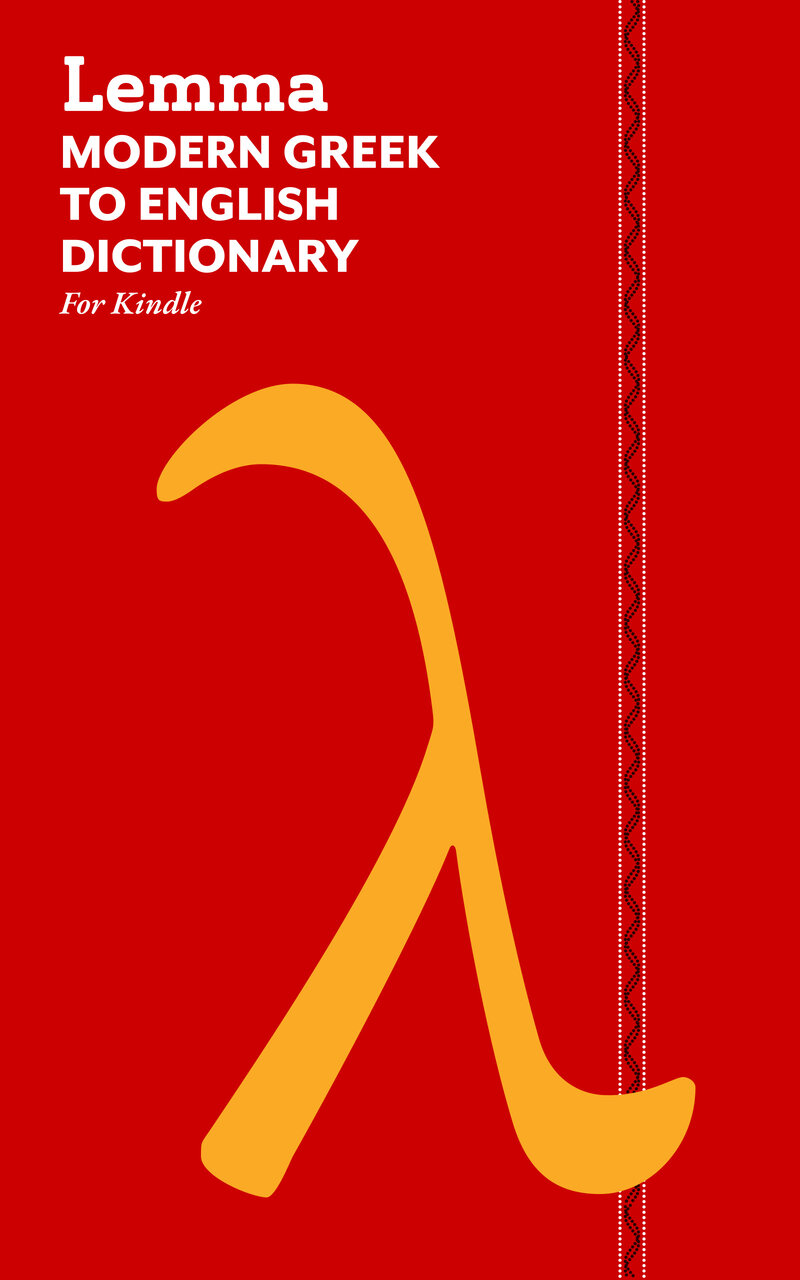
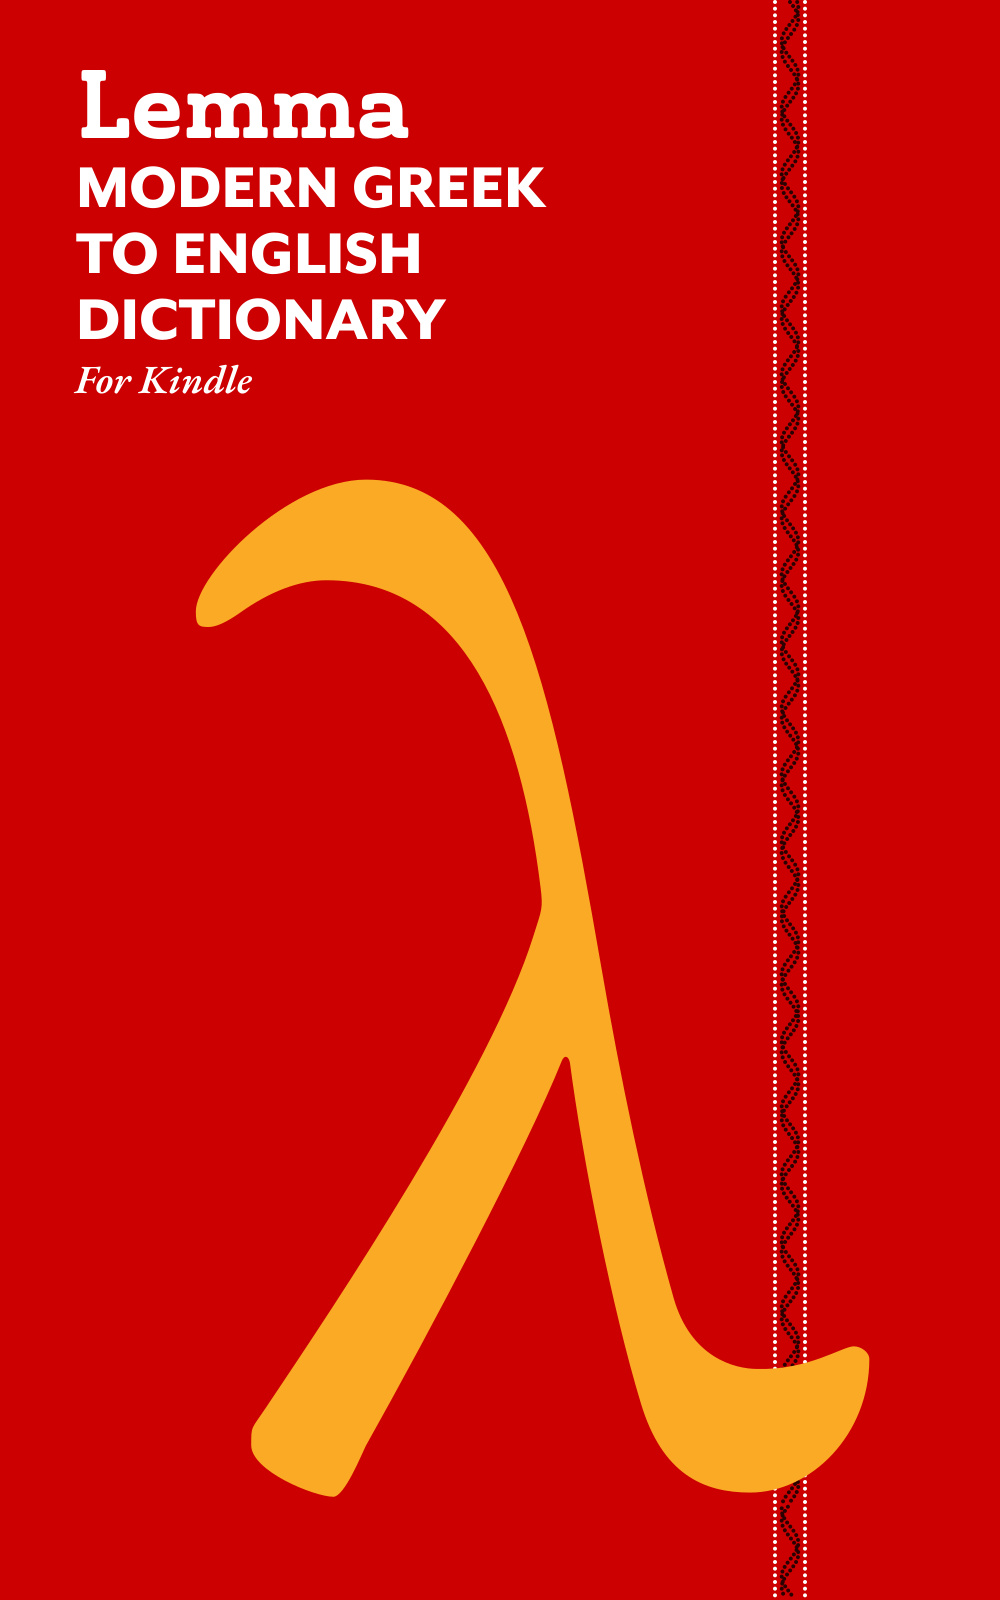
Update dictionary HTML generation and cover images
- Self-close meta and br tags for XHTML well-formedness (KPG 6.1)
- Rewrite usage.html with accurate stats (31K headwords, 660K/689K
  inflection forms) and separate basic vs pro feature lists
- Add text-indent: 0 CSS reset to front matter to match Kindle rendering
- Add subtle background and left-margin reset for .etym class
- Remove redundant br before etymology paragraphs
- Remove HTML cover page from spine per KPG 4.2 (cover image still
  shown in library via EXTH 201)
- Switch cover reference to EPUB 3 Method 1 (properties="coverimage")
- New cover images generated from SVG at 1000x1600, quality 95

diff --git a/lib/html_generator.py b/lib/html_generator.py
@@ -434,7 +434,7 @@ class HtmlGenerator:
       xmlns:mmc="https://kindlegen.s3.amazonaws.com/AmazonKindlePublishingGuidelines.pdf"
       xmlns:idx="https://kindlegen.s3.amazonaws.com/AmazonKindlePublishingGuidelines.pdf">
   <head>
-    <meta http-equiv="Content-Type" content="text/html; charset=utf-8">
+    <meta http-equiv="Content-Type" content="text/html; charset=utf-8" />
     <style>
       h5 { font-size: 1em; margin: 0; }
       p { margin: 0.2em 0; }
@@ -443,7 +443,7 @@ class HtmlGenerator:
       .pos { font-style: italic; }
       .def { margin-left: 20px; }
       .ex { margin-left: 20px; }
-      .etym { margin-top: 0.3em; }
+      .etym { margin-top: 0.5em; margin-left: 0; background-color: #f0f0f0; padding: 0.2em 0.4em; }
       hr { margin: 5px 0; border: none; border-top: 1px solid #ccc; }
     </style>
   </head>
@@ -661,7 +661,7 @@ class HtmlGenerator:
                     etym = _strip_transliterations(etym)
                     etym = _clean_etymology(etym)
                     if etym:
-                        io.write(f"  <br/>\n  <p class='etym'>Etymology: {_escape_html(etym)}</p>\n")
+                        io.write(f"  <p class='etym'>Etymology: {_escape_html(etym)}</p>\n")
 
                 if len(entries) > 1 and idx < len(entries) - 1:
                     io.write("  <br/><br/>\n")
@@ -705,7 +705,7 @@ class HtmlGenerator:
         content = """\
 <html>
   <head>
-    <meta content="text/html; charset=utf-8" http-equiv="content-type">
+    <meta content="text/html; charset=utf-8" http-equiv="content-type" />
     <style>
       body { margin: 0; padding: 0; text-align: center; }
       img { max-width: 100%; height: auto; }
@@ -727,7 +727,8 @@ class HtmlGenerator:
         content = f"""\
 <html>
   <head>
-    <meta content="text/html; charset=utf-8" http-equiv="content-type">
+    <meta content="text/html; charset=utf-8" http-equiv="content-type" />
+    <style>p {{ text-indent: 0; margin: 0.3em 0; }}</style>
   </head>
   <body>
     <h2>Copyright</h2>
@@ -757,25 +758,43 @@ class HtmlGenerator:
 
         source_desc = 'English' if self.generator.source_lang == 'en' else 'Greek'
 
+        dict_name = f"Lemma Greek{' Basic' if not self._is_full_build else ''} Dictionary"
+        headword_count = f"{self.generator.entry_count:,}" if hasattr(self.generator, 'entry_count') else "31,000+"
+        inflection_count = f"{self.generator.inflection_count:,}" if hasattr(self.generator, 'inflection_count') else "660,000+"
+
+        if self._is_full_build:
+            features = """\
+    <ul>
+      <li>31,000+ headwords with 689,000+ inflected lookup forms</li>
+      <li>Both monotonic and polytonic Greek supported</li>
+      <li>Part of speech tags and grammatical details</li>
+      <li>14,000+ etymologies</li>
+      <li>5,000+ usage examples</li>
+    </ul>"""
+        else:
+            features = """\
+    <ul>
+      <li>31,000+ headwords with 660,000+ inflected lookup forms</li>
+      <li>Both monotonic and polytonic Greek supported</li>
+      <li>Part of speech tags</li>
+    </ul>"""
+
         content = f"""\
 <html>
   <head>
-    <meta content="text/html; charset=utf-8" http-equiv="content-type">
+    <meta content="text/html; charset=utf-8" http-equiv="content-type" />
+    <style>p {{ text-indent: 0; margin: 0.3em 0; }}</style>
   </head>
   <body>
-    <h2>How to Use Lemma Greek{" Basic" if not self._is_full_build else ""} Dictionary</h2>
-    <span>This is a {dict_type} dictionary with Modern Greek words from {source_desc} Wiktionary.</span>
-    <br><h3>Features</h3>
-    <ul>
-      <li>Look up any Greek word while reading</li>
-      <li>Inflected forms automatically redirect to their lemma</li>
-      <li>Includes part of speech information</li>
-    </ul>
-    <br><h3>To Set as Default Greek Dictionary</h3>
+    <h2>{dict_name}</h2>
+    <span>A {dict_type} dictionary built from {source_desc} Wiktionary. Look up any Greek word while reading - inflected forms automatically redirect to their headword.</span>
+    <br/><br/><h3>Features</h3>
+{features}
+    <br/><h3>To Set as Default Greek Dictionary</h3>
     <ul>
       <li>Look up any Greek word in your book</li>
       <li>Tap the dictionary name in the popup</li>
-      <li>Select "Lemma Greek{" Basic" if not self._is_full_build else ""} Dictionary"</li>
+      <li>Select "{dict_name}"</li>
     </ul>
   </body>
 </html>
@@ -815,7 +834,6 @@ class HtmlGenerator:
     <dc:identifier id="BookId" opf:scheme="UUID">{unique_id}-{self.generator.download_date}</dc:identifier>
     <meta name="wiktionary-extraction-date" content="{self.generator.extraction_date or 'Unknown'}" />
     <meta name="dictionary-name" content="{display_title}" />
-    <meta name="cover" content="cover-image" />
     <x-metadata>
       <DictionaryInLanguage>el</DictionaryInLanguage>
       <DictionaryOutLanguage>{out_lang}</DictionaryOutLanguage>
@@ -826,12 +844,10 @@ class HtmlGenerator:
     <item id="ncx"
           href="toc.ncx"
           media-type="application/x-dtbncx+xml" />
-    <item id="cover-image"
+    <item id="cimage"
           href="cover.jpg"
-          media-type="image/jpeg" />
-    <item id="cover"
-          href="cover.html"
-          media-type="application/xhtml+xml" />
+          media-type="image/jpeg"
+          properties="coverimage" />
     <item id="usage"
           href="usage.html"
           media-type="application/xhtml+xml" />
@@ -843,13 +859,11 @@ class HtmlGenerator:
           media-type="application/xhtml+xml" />
   </manifest>
   <spine toc="ncx">
-    <itemref idref="cover" />
     <itemref idref="usage" />
     <itemref idref="copyright"/>
     <itemref idref="content"/>
   </spine>
   <guide>
-    <reference type="cover" title="Cover" href="cover.html"/>
     <reference type="index" title="IndexName" href="content.html"/>
   </guide>
 </package>
